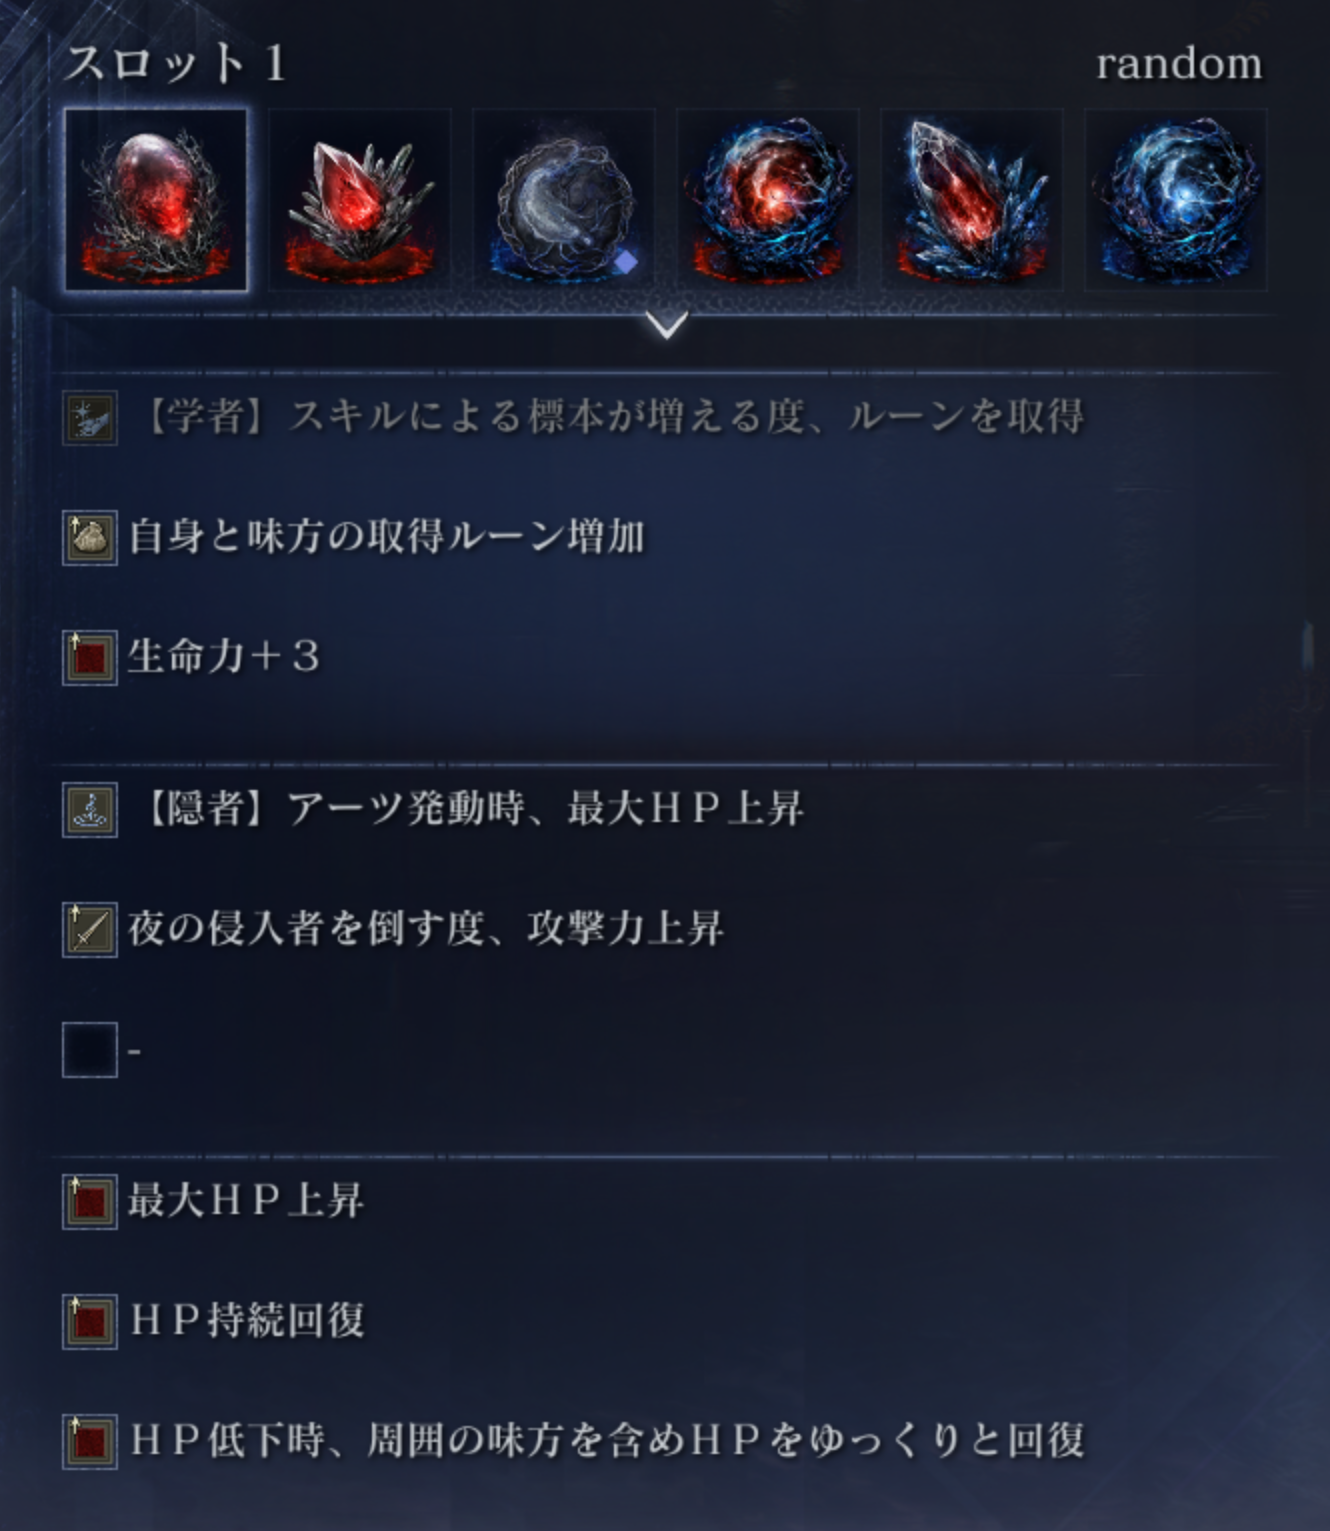
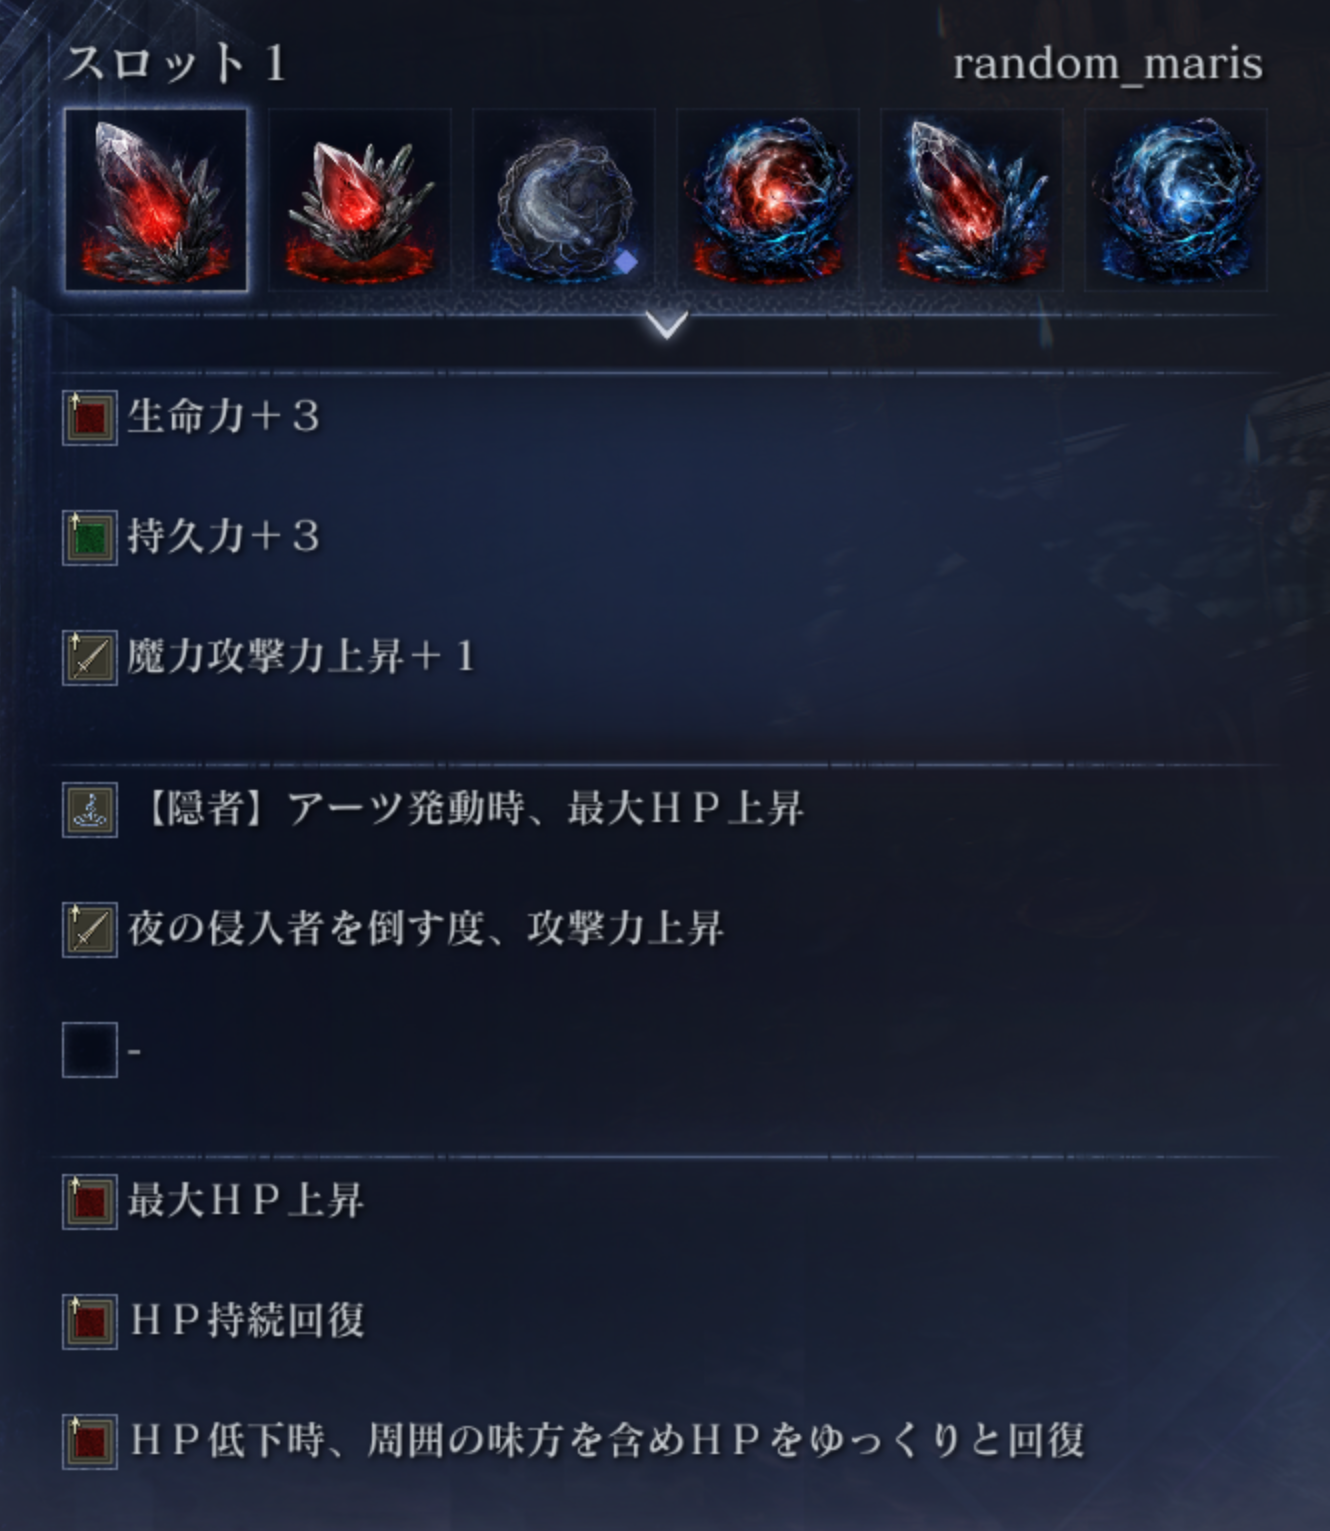
隠者の遺物構成を更新、Lv15つぶてダメージ表示を追加
- Lv15つぶてバッジ（pebbleLv15）を新設し隠者全エントリに数値登録
- グラディウスを共通構成から分離して専用構成を追加
- マリス・ボス不明の画像差し替え、リブラの画像・HP差し替え
- 共通構成・マリス・カリゴ・ボス不明のコンセプト更新
- 未使用の旧マリス画像を削除

diff --git a/app.js b/app.js
@@ -352,6 +352,20 @@ async function main() {
       return hpBadge;
     }
 
+    function buildPebbleBadge(value) {
+      const badge = document.createElement("span");
+      badge.className = "pebble-badge";
+      const statLabel = document.createElement("span");
+      statLabel.className = "stat-label stat-label-pebble";
+      statLabel.textContent = "Lv15 つぶて";
+      const statValue = document.createElement("span");
+      statValue.className = "stat-value stat-value-pebble";
+      statValue.textContent = value ?? "未登録";
+      badge.appendChild(statLabel);
+      badge.appendChild(statValue);
+      return badge;
+    }
+
     const bossLabel = bossNames.join("・");
     const hasGroupHp = (entry.variantGroups ?? []).some((g) => g.hpLv15 != null);
 
@@ -390,6 +404,10 @@ async function main() {
     const stat = document.createElement("div");
     stat.className = "stat-row";
     if (!hasGroupHp) stat.appendChild(buildHpBadge(entry.hpLv15));
+    // つぶてダメージは隠者のみ表示（値がなければ未登録）
+    if (entry.characterId === "hermit" || entry.pebbleLv15 != null) {
+      stat.appendChild(buildPebbleBadge(entry.pebbleLv15));
+    }
 
     if (entry.createdAt) {
       const dateLabel = document.createElement("span");

diff --git a/style.css b/style.css
@@ -354,6 +354,23 @@ body {
   color: #ffffff;
 }
 
+.pebble-badge {
+  display: inline-flex;
+  align-items: baseline;
+  gap: 0.35rem;
+  background: #4a3806;
+  border-radius: 999px;
+  padding: 0.2rem 0.8rem;
+}
+
+.pebble-badge .stat-label-pebble {
+  color: #f3e3b0;
+}
+
+.pebble-badge .stat-value-pebble {
+  color: #ffffff;
+}
+
 .divider {
   border: none;
   border-top: 1px solid var(--border);
